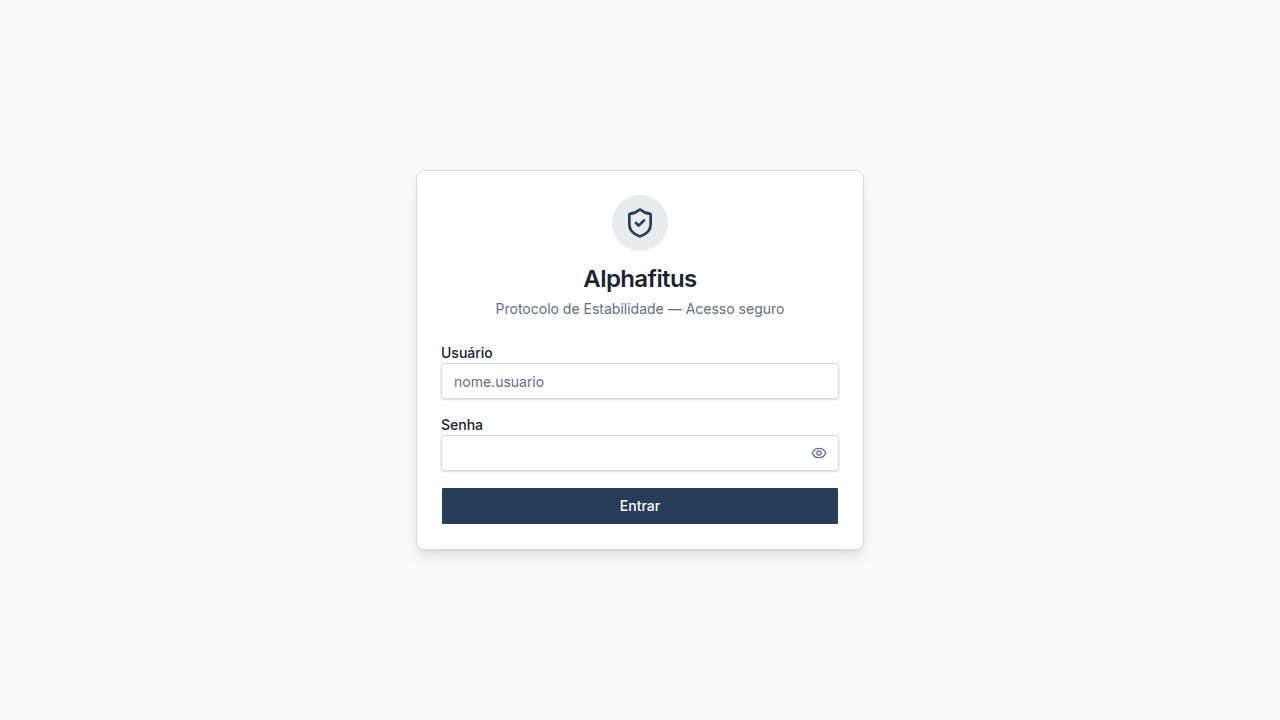
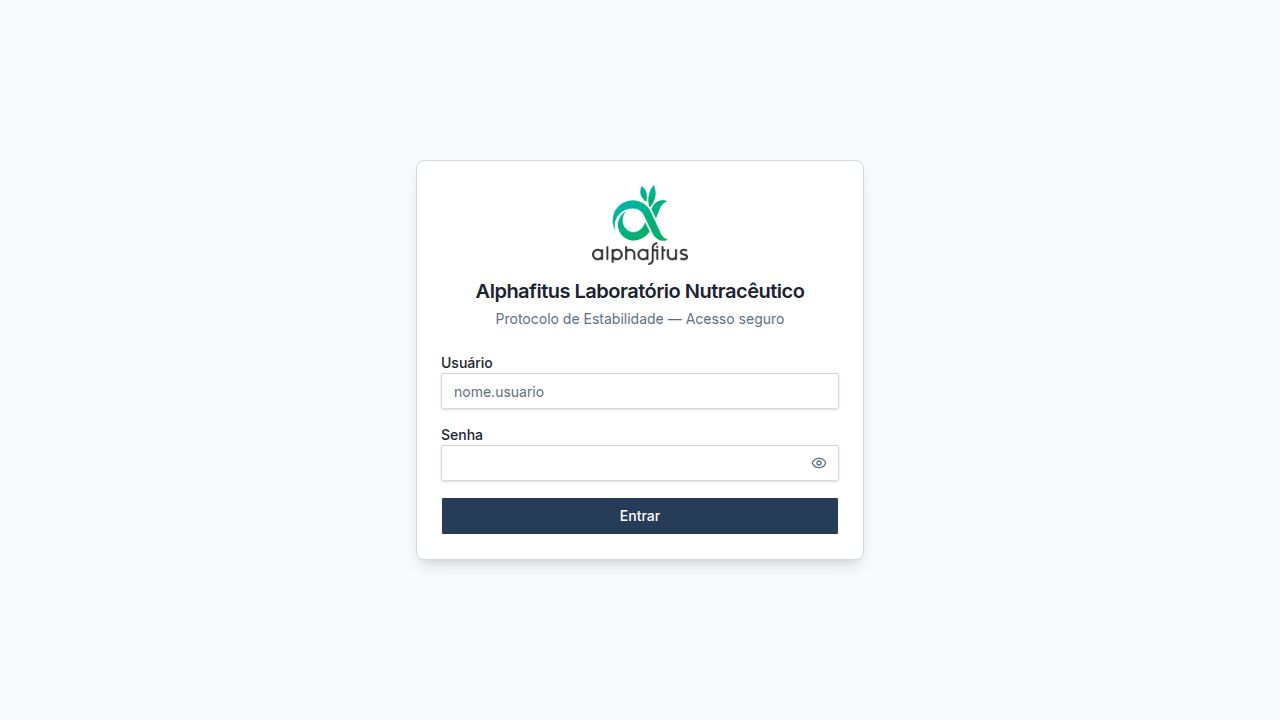
Make protocol information fields editable directly on the page
Update ProtocolInfoTab to use `useLabelOverrides` hook, enabling inline editing of labels and their values.

Replit-Commit-Author: Agent
Replit-Commit-Session-Id: 3fc75128-fa38-4de8-866c-a7eee9c330bd
Replit-Commit-Checkpoint-Type: full_checkpoint
Replit-Commit-Event-Id: 2cef8ce5-c9cf-4bdc-a0d4-4612de30ef3a
Replit-Commit-Screenshot-Url: https://storage.googleapis.com/screenshot-production-us-central1/e924162d-ecad-4501-b0b7-8950ecdea8cb/3fc75128-fa38-4de8-866c-a7eee9c330bd/mexvjwN
Replit-Helium-Checkpoint-Created: true

Changed region(s): [[0.3438, 0.6111, 0.6562, 0.7944], [0.375, 0.2444, 0.625, 0.4583], [0.3438, 0.4889, 0.4375, 0.6111]]

diff --git a/artifacts/protocolo-estabilidade/src/pages/protocol-detail.tsx b/artifacts/protocolo-estabilidade/src/pages/protocol-detail.tsx
@@ -49,6 +49,7 @@ import { Popover, PopoverContent, PopoverTrigger } from "@/components/ui/popover
 import { ArrowLeft, Plus, Pencil, Trash2, FileText, CheckCircle2, XCircle, Loader2, FlaskConical, BarChart3, Award, Lock, Unlock, BookOpen, History, Microscope, Download } from "lucide-react";
 import { AuditTrail } from "@/components/audit-trail";
 import { useToast } from "@/hooks/use-toast";
+import { useLabelOverrides } from "@/hooks/use-label-overrides";
 
 // ── HPLC images shared via localStorage ────────────────────────────────────
 interface HplcSavedImage {
@@ -312,8 +313,31 @@ function EditableInfoField({ label, value, onChange, placeholder }: { label: str
   );
 }
 
+function InfoFieldEL({ labelKey, def, value, lbl, setLabel }: {
+  labelKey: string;
+  def: string;
+  value?: string | null;
+  lbl: (key: string, def: string) => string;
+  setLabel: (key: string, value: string) => void;
+}) {
+  if (!value) return null;
+  const current = lbl(labelKey, def);
+  return (
+    <div className="border-b border-border pb-2">
+      <input
+        value={current}
+        onChange={e => setLabel(labelKey, e.target.value)}
+        title="Clique para editar o rótulo deste campo"
+        className="text-[10px] font-semibold uppercase tracking-widest text-muted-foreground bg-transparent border-0 border-b border-dashed border-transparent hover:border-primary/40 focus:outline-none focus:border-primary/60 w-full cursor-text"
+      />
+      <dd className="mt-0.5 text-sm font-medium text-foreground">{value}</dd>
+    </div>
+  );
+}
+
 function ProtocolInfoTab({ protocol }: { protocol: GetProtocolQueryResult }) {
   const ENV_KEY = `cert_env_${protocol.id}`;
+  const { lbl, setLabel } = useLabelOverrides();
 
   const [tempAmostragem, setTempAmostragemRaw] = useState(() => {
     try { return JSON.parse(localStorage.getItem(ENV_KEY) ?? "{}").tempAmostragem ?? "22,8°C"; } catch { return "22,8°C"; }
@@ -339,32 +363,32 @@ function ProtocolInfoTab({ protocol }: { protocol: GetProtocolQueryResult }) {
   const setTempRecebimento = (v: string) => { setTempRecebimentoRaw(v); saveEnv({ tempRecebimento: v }); };
   const setUmidRecebimento = (v: string) => { setUmidRecebimentoRaw(v); saveEnv({ umidRecebimento: v }); };
 
-  const fieldsTop = [
-    { label: "Número do Certificado de Análise", value: protocol.certNumber },
-    { label: "Empresa", value: protocol.companyName },
-    { label: "CNPJ", value: protocol.cnpj },
-    { label: "IE", value: protocol.ie },
-    { label: "Endereço", value: protocol.address },
-    { label: "CEP", value: protocol.cep },
-    { label: "Nome do Produto", value: protocol.productName },
-    { label: "Tipo de Produto", value: protocol.productType },
-    { label: "Tipo de Pote", value: protocol.packagingType },
-    { label: "Ingredientes Ativos", value: protocol.activeIngredients },
-    { label: "Excipientes", value: protocol.excipients },
-    { label: "Composição da Cápsula", value: protocol.capsuleComposition },
+  const fieldsTop: { labelKey: string; def: string; value?: string | null }[] = [
+    { labelKey: "certNumber", def: "Número do Certificado de Análise", value: protocol.certNumber },
+    { labelKey: "companyName", def: "Nome da Empresa", value: protocol.companyName },
+    { labelKey: "cnpj", def: "CNPJ", value: protocol.cnpj },
+    { labelKey: "ie", def: "IE", value: protocol.ie },
+    { labelKey: "address", def: "Endereço", value: protocol.address },
+    { labelKey: "cep", def: "CEP", value: protocol.cep },
+    { labelKey: "productName", def: "Nome do Produto", value: protocol.productName },
+    { labelKey: "productType", def: "Tipo de Produto", value: protocol.productType },
+    { labelKey: "packagingType", def: "Tipo de Pote", value: protocol.packagingType },
+    { labelKey: "activeIngredients", def: "Ingredientes Ativos", value: protocol.activeIngredients },
+    { labelKey: "excipients", def: "Excipientes", value: protocol.excipients },
+    { labelKey: "capsuleComposition", def: "Composição da Cápsula", value: protocol.capsuleComposition },
   ];
 
-  const fieldsBottom = [
-    { label: "Data de Início", value: protocol.studyStartDate },
-    { label: "Data Final", value: protocol.studyEndDate },
-    { label: "Temperatura de Armazenamento", value: protocol.storageTemp },
-    { label: "Umidade Relativa", value: protocol.storageHumidity },
-    { label: "Período do Estudo (meses)", value: protocol.studyPeriodMonths?.toString() },
-    { label: "Intervalos de Teste", value: protocol.testIntervals },
-    { label: "Elaboração", value: protocol.elaboratedBy },
-    { label: "Aprovação", value: protocol.approvedBy },
-    { label: "Laudo emitido por", value: protocol.issuedBy },
-    { label: "Analista Sênior", value: protocol.seniorAnalyst },
+  const fieldsBottom: { labelKey: string; def: string; value?: string | null }[] = [
+    { labelKey: "studyStartDate", def: "Data de Início", value: protocol.studyStartDate },
+    { labelKey: "studyEndDate", def: "Data Final", value: protocol.studyEndDate },
+    { labelKey: "storageTemp", def: "Temperatura de Armazenamento", value: protocol.storageTemp },
+    { labelKey: "storageHumidity", def: "Umidade Relativa", value: protocol.storageHumidity },
+    { labelKey: "studyPeriodMonths", def: "Período do Estudo (meses)", value: protocol.studyPeriodMonths?.toString() },
+    { labelKey: "testIntervals", def: "Intervalos de Teste", value: protocol.testIntervals },
+    { labelKey: "elaboratedBy", def: "Elaboração", value: protocol.elaboratedBy },
+    { labelKey: "approvedBy", def: "Aprovação", value: protocol.approvedBy },
+    { labelKey: "issuedBy", def: "Laudo emitido por", value: protocol.issuedBy },
+    { labelKey: "seniorAnalyst", def: "Analista Sênior", value: protocol.seniorAnalyst },
   ];
 
   return (
@@ -378,7 +402,7 @@ function ProtocolInfoTab({ protocol }: { protocol: GetProtocolQueryResult }) {
       </div>
 
       <div className="grid grid-cols-2 gap-x-8 gap-y-3">
-        {fieldsTop.map(({ label, value }) => <InfoField key={label} label={label} value={value} />)}
+        {fieldsTop.map(f => <InfoFieldEL key={f.labelKey} {...f} lbl={lbl} setLabel={setLabel} />)}
       </div>
 
       <div className="rounded-md border border-amber-200 bg-amber-50/60 p-4 space-y-4">
@@ -412,7 +436,7 @@ function ProtocolInfoTab({ protocol }: { protocol: GetProtocolQueryResult }) {
       </div>
 
       <div className="grid grid-cols-2 gap-x-8 gap-y-3">
-        {fieldsBottom.map(({ label, value }) => <InfoField key={label} label={label} value={value} />)}
+        {fieldsBottom.map(f => <InfoFieldEL key={f.labelKey} {...f} lbl={lbl} setLabel={setLabel} />)}
       </div>
     </div>
   );